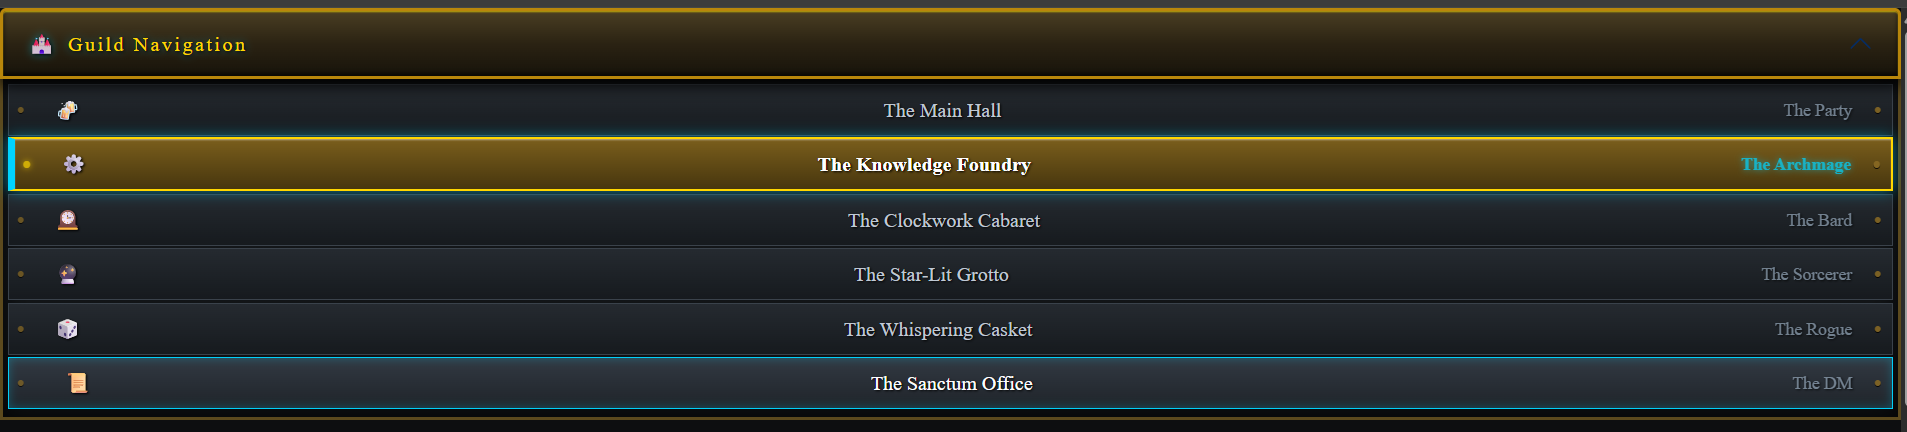
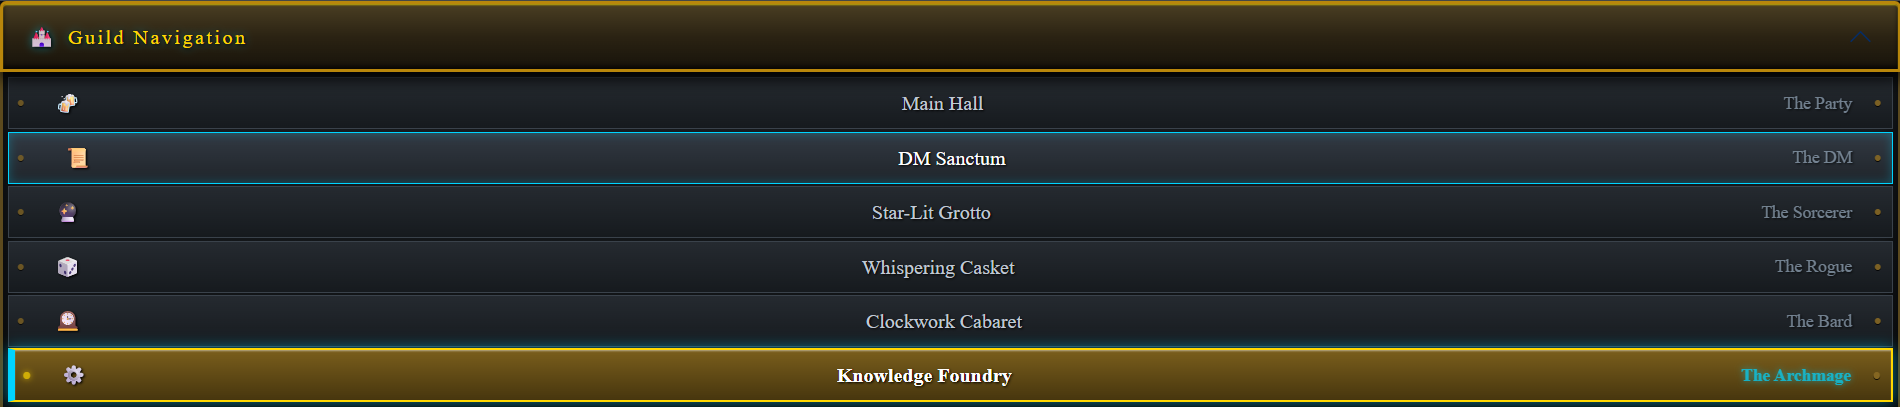
ReadMe update

diff --git a/README.md b/README.md
@@ -12,6 +12,7 @@ Dynamic and thematic navigation is critical for party members as they traverse t
 ![Foundry Nav Dispaly](guildhall-start/src/assets/images/bestiary/foundry_nav_display.png)
 
 * **🍻 The Main Hall (The Party):** Warm dark oak paneling, forged wrought-iron brackets, and amber firelight shadows. Represented by a foaming tavern tankard (`🍻`).
+
 ![Main Hall Nav Display](guildhall-start/src/assets/images/mainhall/main_hall_nav_display.png)
 
 * **🕰 The Clockwork Cabaret (The Bard):** A 45-degree angled switchboard, glowing neon nixie tubes, and brass toggles. Represented by the clockwork mechanism (`🕰`).
@@ -41,8 +42,8 @@ While the data is being fetched the Bestiary Loading screen flashes as seed data
 ### Main Creature Card
 Upon entering the Bestiary, the main creature card adopts a layout inspired by conventional D&D creature stat blocks:
  * **Header:** Displays the creature's name, size, type, and alignment. 
- * **Middle Section** Spilt between core stats, vitals, and rewards on the left with the creature's portrait on the right. 
- * **Bottom Section** Spilt between the primary attacks and special attributes. 
+ * **Middle Section** Split between core stats, vitals, and rewards on the left with the creature's portrait on the right. 
+ * **Bottom Section** Split between the primary attacks and special attributes. 
 
 ![Main Monster Card](guildhall-start/src/assets/images/bestiary/main_monster_card.png)
 
@@ -55,14 +56,18 @@ Designed specifically to help onboard new Dungeon Masters (DM) who may be unfami
 #### Creature Information (Bottom Half)
 Helps new DMs quickly understand what a creature's type implies, what their alignment ethos signifies, along with a detailed creature analysis and lore breakdown.
 
-![Control Panel Creature Information](guildhall-start/src/assets/images/bestiary/control_panel_creature_info.png)
+<p align="center">
+    <img src="guguildhall-start/src/assets/images/bestiary/control_panel_creature_info.png" alt="Control Panel Creature Information" />
+</p>
 
 #### Dynamic Actions & Filtering (Top Half)
 
 * **Live Search:**
 A dynamic search bar at the top instantly filters out creatures from the main cog mechanism as you type.
 
-![Control Panel Top Half](guildhall-start/src/assets/images/bestiary/control_panel_actions.png)
+<p align="center">
+    <img src="guildhall-start/src/assets/images/bestiary/control_panel_actions.png" alt="Control Panel Top Half" />
+</p>
 
 * **Felt Drop-Down Drawer:**
 Allow the DMs to search by monster type. For example, if a DM wants to build an undead army. Select the cog on the drawer and in the drop-down drawer select the lightbulb next to "Undead". The main lower cog will filter out all non-undead creatures. 
@@ -85,7 +90,9 @@ Empowers the DM to dynamically modify and upgrade a creature's base stats for cu
 
 ### Creature Forge & Field Workshop
 
-![Floating Detail Window](guildhall-start/src/assets/images/bestiary/floating_detail_window.png)
+<p align="center">
+  <img src="guildhall-start/src/assets/images/bestiary/floating_detail_window.png" alt="Floating Detail Window" />
+</p>
 
 The Creature Forge is where the DM can create a one of kind variant. As the DM modifies a field the border will highlight the edges gold.
 
@@ -97,7 +104,7 @@ The top half of the Forge has a mystical ruby gem infused into a brass ring allo
 ![Forge Top Half](guildhall-start/src/assets/images/bestiary/floating_detail_window_top_half.png)
 
 * **Creature Identity:**
-Allows the DM to change the creature's name, it's type classification, and it's alignment ethos.
+Allows the DM to change the creature's name, its type classification, and it's alignment ethos.
 
 #### Creature Forge (Second Section)
 * **Vitals and Speed:**
@@ -114,7 +121,9 @@ As the DM builds their variant they can improve on their core attributes using d
 
 Don't have a physical d20? The Forge has you covered with a steampunk-inspired, pneumatic nixie-tube green light dice counter. Just press the gear and let the tube roll the dice!
 
-![Forge Dice Close](guildhall-start/src/assets/images/bestiary/forge_stats_dice.gif)
+<p align="center">
+  <img src="guildhall-start/src/assets/images/bestiary/forge_stats_dice.gif" alt="Forge Dice Close" />
+</p>
 
 #### Creature Forge Bottom Section
 
@@ -132,7 +141,9 @@ If the DM determines the variant isn't worth saving, they can purge the variant 
 * **Save Variant To Field Report:**
 Saves the creature variant directly to their campaign report for retrieval elsewhere in the Guild Hall.
 
-![Forge Action Buttons Interactive](guildhall-start/src/assets/images/bestiary/forge_action-btns_video.gif)
+<p align="center">
+  <img src="guildhall-start/src/assets/images/bestiary/forge_action-btns_video.gif" alt="Forge Action Buttons Interactive" />
+</p>
 
 ---
 
@@ -148,21 +159,31 @@ The Archmage’s Knowledge Foundry is where all ancient lore and creature knowle
 * **The Foundry's Engine Stacks:**
 The Archmage imbued the canisters to handle transitions between the various tomes on the cog, venting excess magic energy. When normal magic energy is released, it appears as a simple blue mist while the gauge needle rises in acknowledgement.
 
-![Foundry Engine Canister](guildhall-start/src/assets/images/bestiary/foundry_engine_canister.gif)
+<p align="center">
+  <img src="guildhall-start/src/assets/images/bestiary/foundry_engine_canister.gif" alt="Foundry Engine Canister" />
+</p>
 
-Each canister controls the cog and it's tome rotation in one of two directions. The cog to the left handles the tradtional previous button.
+Each canister controls the cog and its tome rotation in one of two directions. The cog to the left handles the tradtional previous button.
 
-![Foundry Engine Prev](guildhall-start/src/assets/images/bestiary/engine_canister_prev.gif)
+<p align="center">
+  <img src="guildhall-start/src/assets/images/bestiary/engine_canister_prev.gif" alt="Foundry Engine Prev" />
+</p>
 
 The cog to the right handles the tradtional next button.
 
-![Foundry Engine Next](guildhall-start/src/assets/images/bestiary/engine_canister_next.gif)
+<p align="center">
+  <img src="guildhall-start/src/assets/images/bestiary/engine_canister_next.gif" alt="Foundry Engine Next" />
+</p>
 
 * **The Foundry's Wild Magic Container:**
 The Archmage borrowed Fate's ability to predict what the DM is looking for by infusing the marbled plate underneath the cog with special magic. 
 
-![Foundry Marble Plate](guildhall-start/src/assets/images/bestiary/foundry_marble_plate_static.png)
+<p align="center">
+  <img src="guildhall-start/src/assets/images/bestiary/foundry_marble_plate_static.png" alt="Foundry Marble Plate" />
+</p>
 
 The magic randomly spins the cog to select a creature. However, the wild magic is so unpredictable that it over pressurizes all the key components maintaining the cog. The engine canister's vent stack must work overtime to vent the excess magic quickly!
 
-![Foundry Lever Pull](guildhall-start/src/assets/images/bestiary/foundry_lever_demo.gif)
+<p align="center">
+  <img src="guildhall-start/src/assets/images/bestiary/foundry_lever_demo.gif" alt="Foundry Lever Pull" />
+</p>
